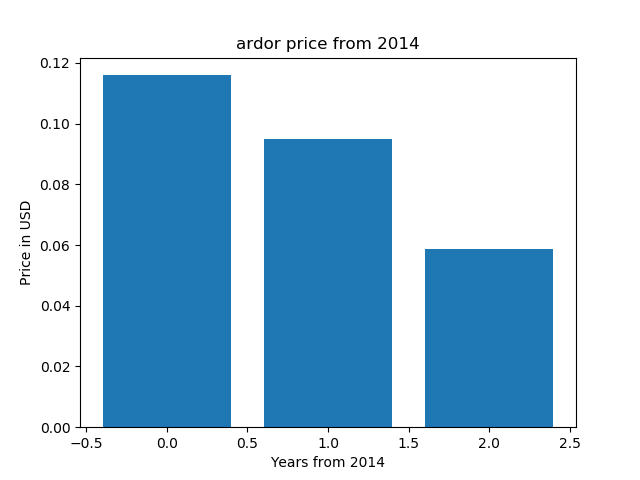
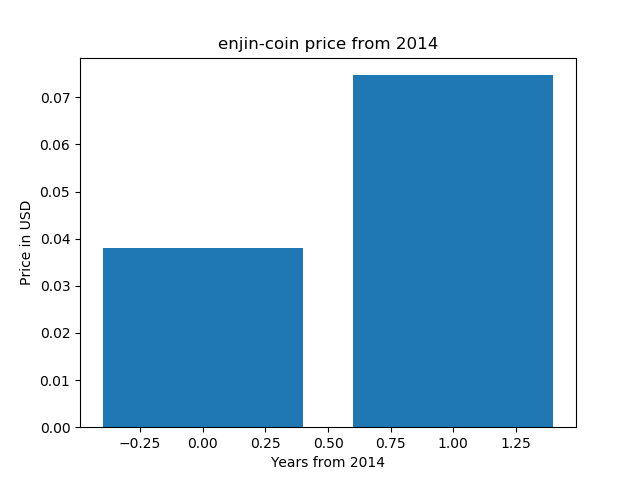
first commit

diff --git a/example.py b/example.py
@@ -10,7 +10,7 @@ from time import gmtime, strftime
 import matplotlib.pyplot as plt
 
 enddate = strftime("%Y%m%d", gmtime())
-r  = requests.get("https://coinmarketcap.com/currencies/ardor/historical-data/?start=20140101&end={0}".format(enddate))
+r  = requests.get("https://coinmarketcap.com/currencies/enjin-coin/historical-data/?start=20140101&end={0}".format(enddate))
 data = r.text
 
 soup = BeautifulSoup(data, "html.parser")
@@ -44,7 +44,7 @@ print(x)
 
 x = list(range(0, len(prices)))
 
-plt.title('ardor price from 2014')
+plt.title('enjin-coin price from 2014')
 plt.ylabel('Price in USD')
 plt.xlabel('Years from 2014')
 plt.bar(x, prices)

diff --git a/README.md b/README.md
@@ -1,6 +1,6 @@
-# ardor price chart 
+# enjin-coin price chart 
 
-ardor price chart (matplotlib, python)
+enjin-coin price chart (matplotlib, python)
 
 https://pythonprogramminglanguage.com
 
